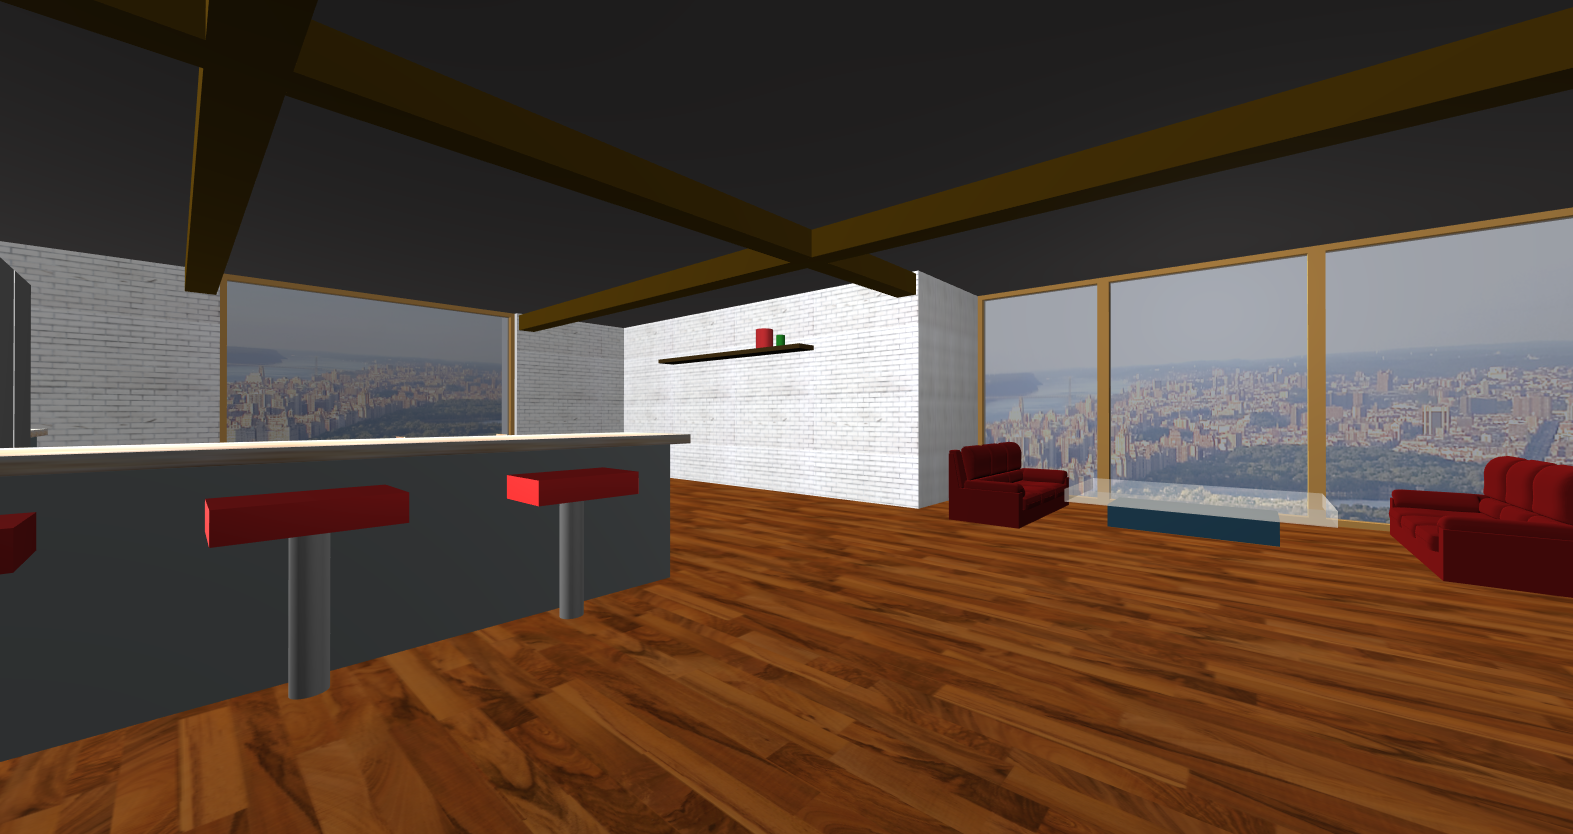
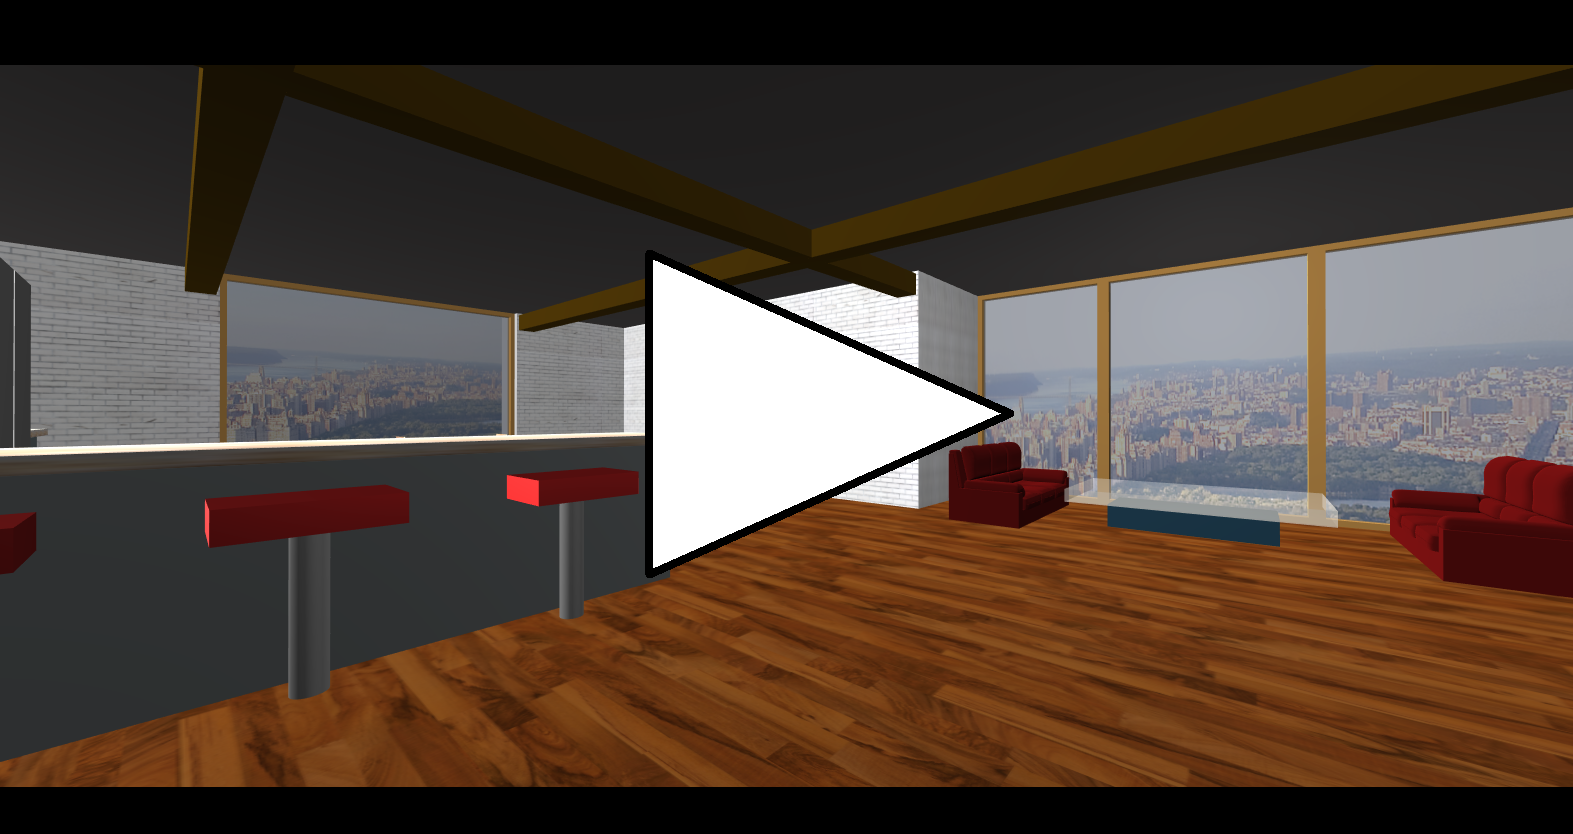
Adding Video and Updating Thumbnail

diff --git a/README.md b/README.md
@@ -3,16 +3,16 @@
 For this project I created a web-based VR Penthouse that you can walk through via a simple github URL on your computer or smartphone. This was created for a Texas Tech University class on Virtual Reality.
 
 #### Click the image below to watch a short video demo.
-[![ScreenShot](https://github.com/DauntlessDash/VRRoom-CS4331/blob/master/screenshots/VideoThumb.png)](https://youtu.be/M5YvbRzGtl0)
+[![ScreenShot](https://github.com/DauntlessDash/VRRoom-CS4331/blob/master/screenshots/VideoThumb.png)](https://www.youtube.com/watch?v=GXNYU2xVG3c)
 
 
-### [**LINK TO LIVE DEMO** ](https://dauntlessdash.github.io/VRRoom-CS4331/)
+# [**LINK TO LIVE DEMO** ](https://dauntlessdash.github.io/VRRoom-CS4331/)
 
 ## VR Penthouse Features
 
 The following screenshots highlight some of the different elements in the VR Penthouse.
 
-The main feature of the Penthouse that stands out is that you see central park outside of two of the windows. This is achieved by having a flat plane with the image of central park suspended a distance outside the window. Also in this area is two red leather sofas and a modern glass coffee table.
+The main feature of the Penthouse that stands out is that you see central park outside of two of the windows. This is achieved by having a flat plane with the image of central park suspended a distance outside the window. Also in this area is two red leather sofas, a modern glass coffee table, and in the background you can see a shelf in the kitchen.
 
 ![Alt text](https://github.com/DauntlessDash/VRRoom-CS4331/blob/master/screenshots/Screenshot1.png)
 
@@ -34,7 +34,7 @@ Outside of the door is my dog, Beau. He is permanently spinning and might get di
 
 ![Alt text](https://github.com/DauntlessDash/VRRoom-CS4331/blob/master/screenshots/Screenshot5.png)
 
-Here there is two more L-shaped couches and the main TV of the house.
+Here there is two more L-shaped couches, a glass coffee table, and the main TV of the house.
 
 ![Alt text](https://github.com/DauntlessDash/VRRoom-CS4331/blob/master/screenshots/Screenshot6.png)
 
@@ -44,6 +44,6 @@ And finally there is a glass front door and a dresser nearby.
 
 ## Credits
 
-3D Models: https://www.turbosquid.com (FREE)
-Textures: http://www.wildtextures.com/ and http://www.texturex.com/
+* 3D Models: https://www.turbosquid.com (FREE)
+* Textures: http://www.wildtextures.com/ and http://www.texturex.com/
 
